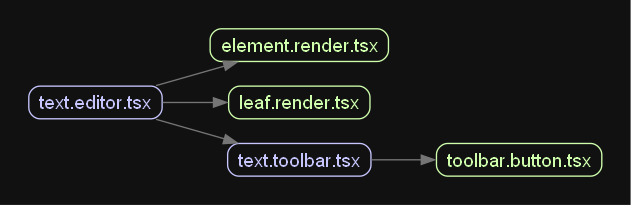
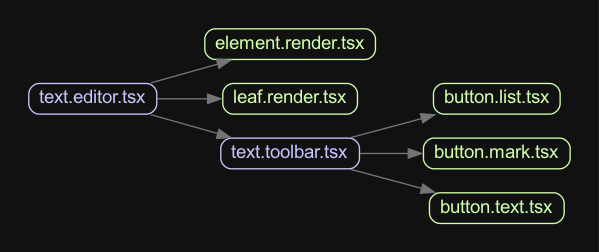
clean up text editor

diff --git a/apps/react/src/components/dragdrop/drop.element.tsx b/apps/react/src/components/dragdrop/drop.element.tsx
@@ -8,29 +8,29 @@ import DropMenu from "./drop.menu";
 import { TextEditor } from '../text';
 
 import { dndHelper } from "./helpers";
-import { IBlockButton, IMarkButton } from "../text/types";
+import { IButtonBlock, IButtonMark } from "../text/types";
 
 interface IProps extends Field {
   context: ContextValue;
 }
 
 const markButtons = [
-  { name: 'mark', format: 'bold', icon: '' },
-  { name: 'mark', format: 'code', icon: '' },
-  { name: 'mark', format: 'italic', icon: '' },
-  { name: 'mark', format: 'underline', icon: '' },
-  { name: 'mark', format: 'strikethrough', icon: '' },
+  { name: 'bold', icon: '' },
+  { name: 'code', icon: '' },
+  { name: 'italic', icon: '' },
+  { name: 'underline', icon: '' },
+  { name: 'strikethrough', icon: '' },
 ];
 
-const formatingButtons = [
-  { name: 'block', format: 'heading-one', icon: '' },
-  { name: 'block', format: 'heading-two', icon: '' },
-  { name: 'block', format: 'block-quote', icon: '' },
+const textButtons = [
+  { name: 'heading-one', icon: '' },
+  { name: 'heading-two', icon: '' },
+  { name: 'block-quote', icon: '' },
 ];
 
 const listButtons = [
-  { name: 'block', format: 'numbered-list', icon: '' },
-  { name: 'block', format: 'bulleted-list', icon: '' },
+  { name: 'numbered-list', icon: '' },
+  { name: 'bulleted-list', icon: '' },
 ];
 
 function DropElement({ context, ...item }: IProps) {
@@ -89,9 +89,9 @@ function DropElement({ context, ...item }: IProps) {
           data={data}
           placeholder={textPlaceholder}
           options={{
-            mark: markButtons as IMarkButton[],
-            formating: formatingButtons as IBlockButton[],
-            list: listButtons as IBlockButton[]
+            markButtons: markButtons as IButtonMark[],
+            textButtons: textButtons as IButtonBlock[],
+            listButtons: listButtons as IButtonBlock[]
           }}
           onChange={onChange}
         />

diff --git a/apps/react/src/components/text/text.editor.tsx b/apps/react/src/components/text/text.editor.tsx
@@ -4,7 +4,7 @@ import { createEditor, Descendant, Editor, Transforms } from 'slate';
 import { withHistory } from 'slate-history';
 
 import { textHelper } from './helpers';
-import { IBlockButton, IMarkButton, KeyValue } from './types';
+import { IButtonBlock, IButtonMark, KeyValue } from './types';
 import { withSoftBreaks } from './hoc';
 
 import { ElementRender, ElementRenderProps } from './element.render';
@@ -17,19 +17,19 @@ export interface OnChangeParams {
 }
 
 interface Options {
-  formating?: IBlockButton[],
-  mark?: IMarkButton[],
-  list?: IBlockButton[],
-  alignment?: IBlockButton[],
-  //table?: IBlockButton[],
-  //history?: IBlockButton[],
-  //media?: IBlockButton[],
-  //link?: IBlockButton[],
-  //color?: IBlockButton[],
-  //code?: IBlockButton[],
-  //clear?: IBlockButton[],
-  //search?: IBlockButton[],
-  //symbol?: IBlockButton[]
+  textButtons?: IButtonBlock[],
+  markButtons?: IButtonMark[],
+  listButtons?: IButtonBlock[],
+  alignButtons?: IButtonBlock[],
+  //table?: IButtonBlock[],
+  //history?: IButtonBlock[],
+  //media?: IButtonBlock[],
+  //link?: IButtonBlock[],
+  //color?: IButtonBlock[],
+  //code?: IButtonBlock[],
+  //clear?: IButtonBlock[],
+  //search?: IButtonBlock[],
+  //symbol?: IButtonBlock[]
 }
 
 interface IProps {
@@ -65,7 +65,7 @@ export function TextEditor({ data, placeholder = 'Enter some plain text...', rea
       <button type="button" onClick={editor.undo}>Undo</button>
       <button type="button" onClick={editor.redo}>Redo</button>
       </div>
-      <TextToolbar mark={options.mark} formating={options.formating} list={options.list} />
+      <TextToolbar markButtons={options.markButtons} textButtons={options.textButtons} listButtons={options.listButtons} />
       <Editable
         renderElement={renderElement}
         renderLeaf={renderLeaf}

diff --git a/apps/react/src/components/text/text.toolbar.tsx b/apps/react/src/components/text/text.toolbar.tsx
@@ -1,32 +1,33 @@
 import { useSlate } from "slate-react";
 
-import { IBlockButton, IMarkButton } from "./types";
-import { BlockButton } from "./block.button";
-import { MarkButton } from "./mark.button";
+import { IButtonBlock, IButtonMark } from "./types";
+import { ButtonText } from "./button.text";
+import { ButtonMark } from "./button.mark";
+import { ButtonList } from "./button.list";
 
 interface IProps {
-  mark?: IMarkButton[],
-  formating?: IBlockButton[],
-  list?: IBlockButton[]
+  markButtons?: IButtonMark[],
+  textButtons?: IButtonBlock[],
+  listButtons?: IButtonBlock[]
 }
 
-export function TextToolbar({ mark = [], formating = [],  list =[]}: IProps) {
+export function TextToolbar({ markButtons = [], textButtons = [],  listButtons =[]}: IProps) {
   const editor = useSlate();
 
   return <div>
     {
-      mark.map(({ name, format, icon }) => {
-        return <MarkButton key={format} name={name} editor={editor} format={format} icon={icon} />
+      markButtons.map(({ name, icon }) => {
+        return <ButtonMark key={name} name={name} editor={editor} icon={icon} />
       })
     }
     {
-      formating.map(({ name, format, icon }) => {
-        return <BlockButton key={format} name={name} editor={editor} format={format} icon={icon} />
+      textButtons.map(({ name, icon }) => {
+        return <ButtonText key={name} name={name} editor={editor} icon={icon} />
       })
     }
     {
-      list.map(({ name, format, icon }) => {
-        return <BlockButton key={format} name={name} editor={editor} format={format} icon={icon} />
+      listButtons.map(({ name, icon }) => {
+        return <ButtonList key={name} name={name} editor={editor} icon={icon} />
       })
     }
   </div>

diff --git a/apps/react/src/components/text/types/text.type.ts b/apps/react/src/components/text/types/text.type.ts
@@ -3,20 +3,23 @@ import { ReactEditor } from 'slate-react'
 import { HistoryEditor } from 'slate-history'
 
 export type BlockType = 'paragraph' | 'quote' | 'code' | 'bulleted-list' | 'heading-one' | 'heading-two' | 'heading-three' | 'heading-four' | 'heading-five' | 'heading-six' | 'list-item' | 'numbered-list';
-export type InlineType = 'bold' | 'code' | 'italic' | 'underline' | 'strikethrough';
+export type MarkType = 'bold' | 'code' | 'italic' | 'underline' | 'strikethrough';
 export type ButtonType = 'mark' | 'block';
 
 export type CustomElement = { type: BlockType; children: TextData[] }
 export type TextData = { text: string; bold?: true }
 export type SlateEditor = BaseEditor & ReactEditor & HistoryEditor;
 
-export interface IMarkButton {
-  name: ButtonType;
-  format: string;
+
+export interface IButtonMark {
+  name: MarkType;
   icon: string;
 }
 
-export interface IBlockButton extends IMarkButton {}
+export interface IButtonBlock{
+  name: BlockType;
+  icon: string;
+}
 
 declare module 'slate' {
   interface CustomTypes {

diff --git a/apps/react/src/components/text/button.list.tsx b/apps/react/src/components/text/button.list.tsx
@@ -1,0 +1,28 @@
+import { MouseEvent } from 'react';
+import { Editor } from 'slate';
+
+import { IButtonBlock, SlateEditor } from './types';
+
+type IProps = IButtonBlock & {
+  editor: SlateEditor;
+}
+
+export function ButtonList({ name, editor }: IProps) {
+  const isActive = () => {
+    const marks = Editor.marks(editor) || {};
+
+    return (marks as Record<string, unknown>)[name] === true;
+  };
+
+  const handleOnMouseDown = (e: MouseEvent<HTMLButtonElement>) => {
+    e.preventDefault();
+
+    if (isActive()) {
+      Editor.removeMark(editor, name);
+    } else {
+      Editor.addMark(editor, name, true);
+    }
+  }
+
+  return <button type="button" name={name} className={isActive() ? 'active' : ''} onMouseDown={handleOnMouseDown}>{name}</button>;
+}

diff --git a/apps/react/src/components/text/button.text.tsx b/apps/react/src/components/text/button.text.tsx
@@ -1,0 +1,28 @@
+import { MouseEvent } from 'react';
+import { Editor } from 'slate';
+
+import { IButtonBlock, SlateEditor } from './types';
+
+type IProps = IButtonBlock & {
+  editor: SlateEditor;
+}
+
+export function ButtonText({ name, editor }: IProps) {
+  const isActive = () => {
+    const marks = Editor.marks(editor) || {};
+
+    return (marks as Record<string, unknown>)[name] === true;
+  };
+
+  const handleOnMouseDown = (e: MouseEvent<HTMLButtonElement>) => {
+    e.preventDefault();
+
+    if (isActive()) {
+      Editor.removeMark(editor, name);
+    } else {
+      Editor.addMark(editor, name, true);
+    }
+  }
+
+  return <button type="button" name={name} className={isActive() ? 'active' : ''} onMouseDown={handleOnMouseDown}>{name}</button>;
+}

diff --git a/apps/react/src/components/text/button.mark.tsx b/apps/react/src/components/text/button.mark.tsx
@@ -1,0 +1,28 @@
+import { MouseEvent } from 'react';
+import { Editor } from 'slate';
+
+import { IButtonMark, SlateEditor } from './types';
+
+type IProps = IButtonMark & {
+  editor: SlateEditor;
+}
+
+export function ButtonMark({ name, editor }: IProps) {
+  const isActive = () => {
+    const marks = Editor.marks(editor) || {};
+
+    return (marks as Record<string, unknown>)[name] === true;
+  };
+
+  const handleOnMouseDown = (e: MouseEvent<HTMLButtonElement>) => {
+    e.preventDefault();
+
+    if (isActive()) {
+      Editor.removeMark(editor, name);
+    } else {
+      Editor.addMark(editor, name, true);
+    }
+  }
+
+  return <button type="button" name={name} className={isActive() ? 'active' : ''} onMouseDown={handleOnMouseDown}>{name}</button>;
+}
